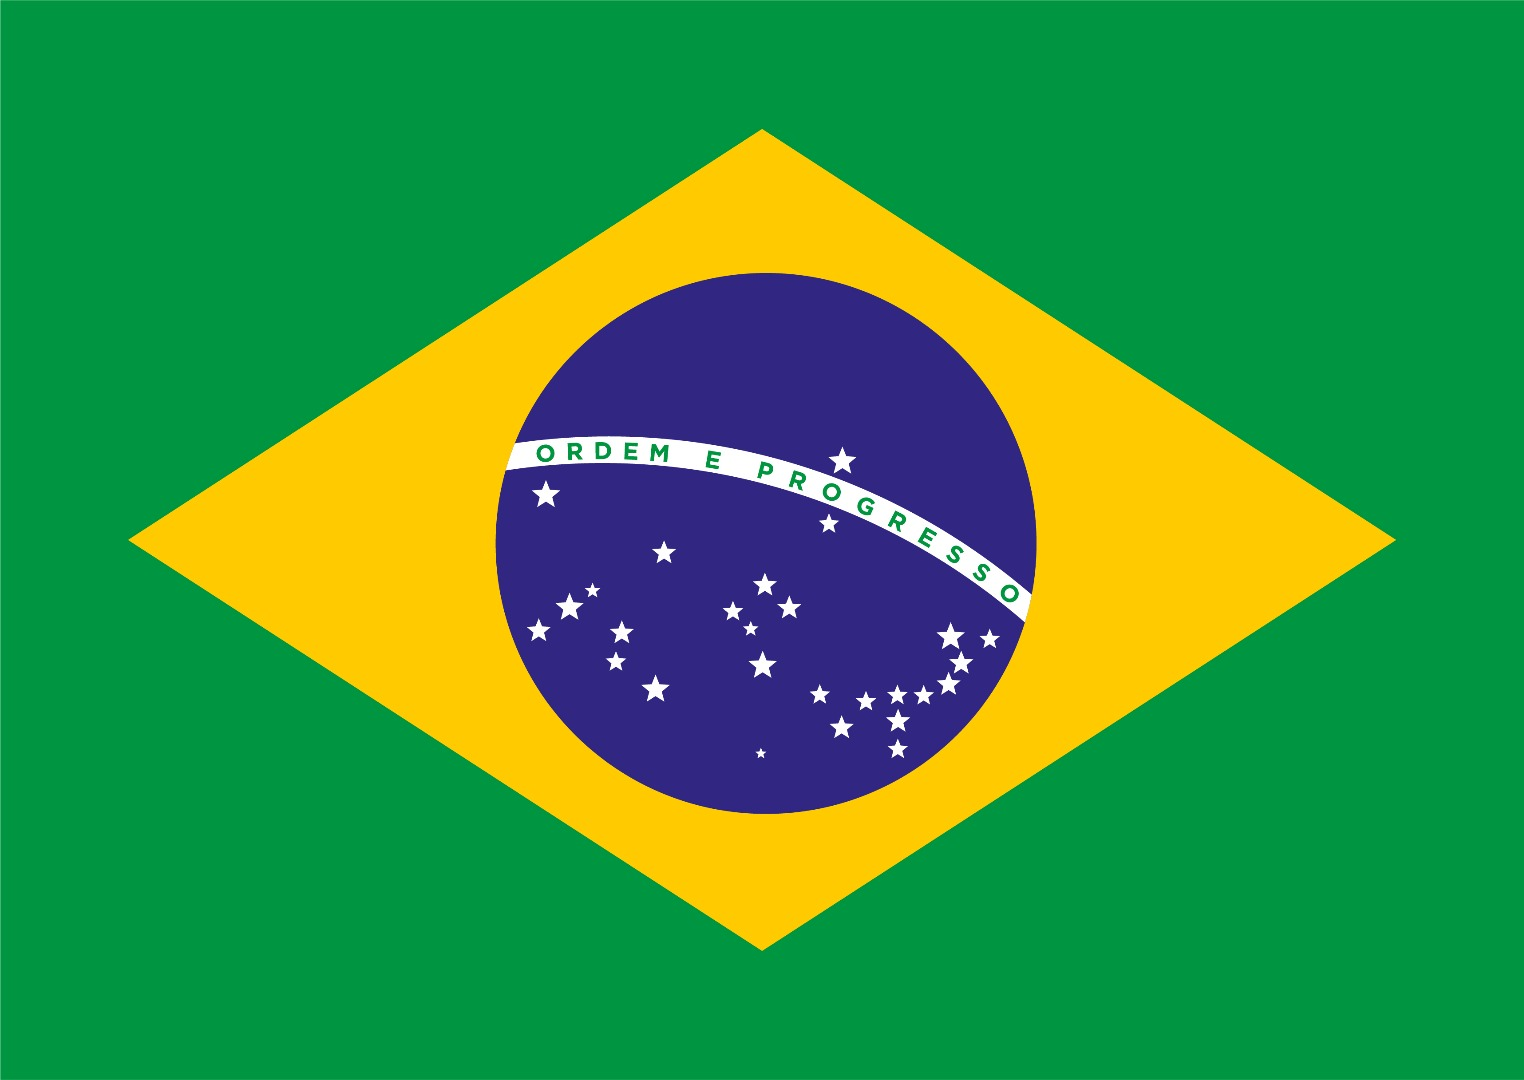
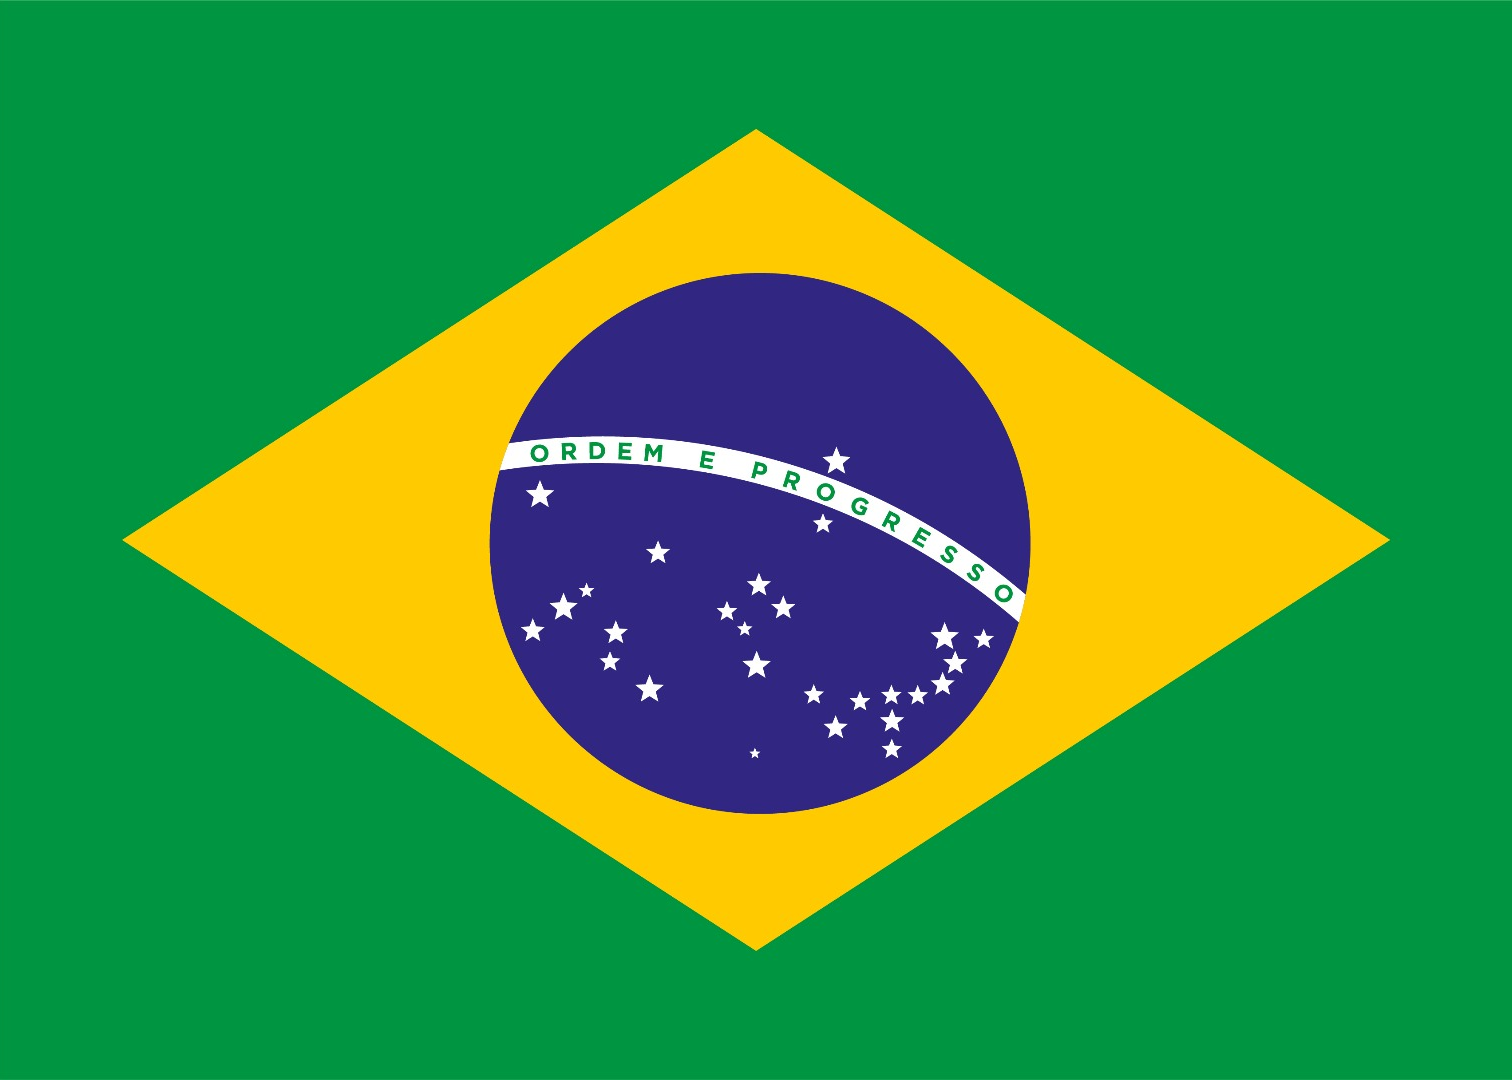
Lighthouse fix: set an explicit width and height on image elements

diff --git a/styles/base.css b/styles/base.css
@@ -95,7 +95,7 @@ section h2 {
 
 #flag{
     height: 150px;
-    width: auto;
+    width: 210px;
 }
 
 section h3 {
